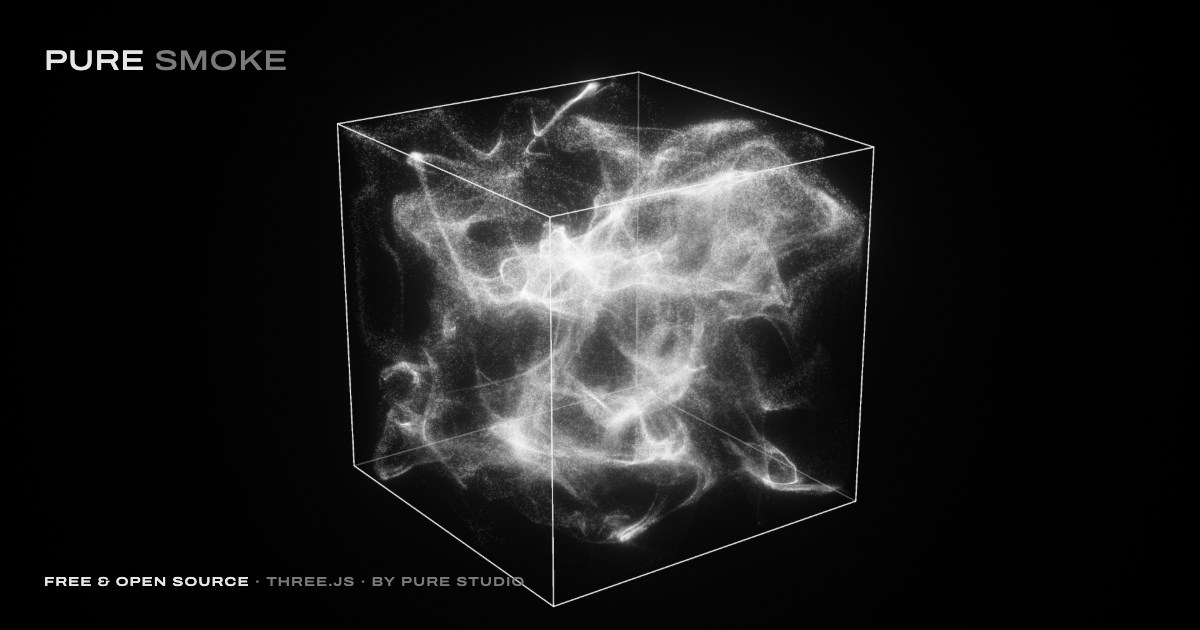
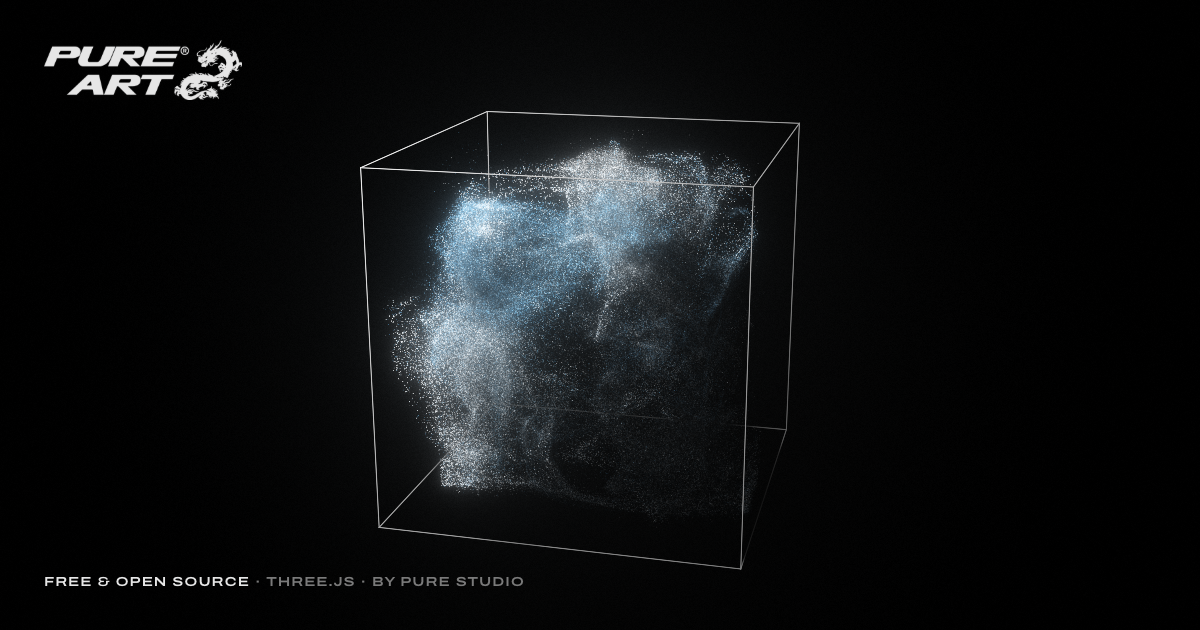
Ready to open: README front page, contributing guide, new share image
- README opens like a project page: what it is in three lines, what's in it, why it looks like this
  (each design choice and its reason), how to make it yours, then the controls and how it works. The
  demo link is pure-art.vercel.app.
- CONTRIBUTING.md: how to run it, small pull requests, the smoke is the art (show before and after),
  test where people use it, reduced motion, comments that say why.
- og.png: the app itself in the blue gradient under the Pure Art logo; the share card's image and page
  are absolute addresses, as social sites need.
- package.json: homepage, repository, issues and keywords.

diff --git a/index.html b/index.html
@@ -13,7 +13,8 @@
     <link rel="stylesheet" href="/src/style.css" />
     <meta property="og:title" content="Pure Smoke" />
     <meta property="og:description" content="Particle smoke in a glass cube. Free and open source, made with three.js by Pure Studio." />
-    <meta property="og:image" content="/og.png" />
+    <meta property="og:image" content="https://pure-art.vercel.app/og.png" />
+    <meta property="og:url" content="https://pure-art.vercel.app" />
     <meta name="twitter:card" content="summary_large_image" />
     <link rel="icon" href="/favicon.png" type="image/png" sizes="64x64" />
     <link rel="apple-touch-icon" href="/apple-touch-icon.png" />

diff --git a/README.md b/README.md
@@ -1,12 +1,42 @@
 # Pure Smoke
 
-Particle smoke in a glass cube. Free, open source and made with three.js.
+Particle smoke in a glass cube. Free, open source, made with three.js.
 
-![Pure Smoke: white particle smoke inside a wireframe glass cube](public/og.png)
+![Pure Smoke: blue and white particle smoke inside a wireframe glass cube, under the Pure Art logo](public/og.png)
 
-**Play with it:** https://pure-smoke.vercel.app
+**Play with it:** https://pure-art.vercel.app
 
-Drag to turn the cube, hover to stir the smoke, scroll to zoom (the hints at the bottom light up while you do each one, the first few times; on a touch screen only the drag is listed). Change the look with the panel on the side, then save a 4K image or record a seamless loop for your post.
+Most smoke on the web is a video. This one is alive.
+A million grains move through a real flow, inside real glass, under one studio lamp.
+You can turn it, stir it, give it your colours, and take it home as a 4K image or a loop that never shows its seam.
+
+Drag to turn the cube, hover to stir the smoke, scroll to zoom (the hints at the bottom light up while you do each one, the first few times; on a touch screen only the drag is listed).
+
+## What's in it
+
+- **Seven looks.** Each one a different shape of the same smoke. Randomize only rolls the ones that stay beautiful.
+- **Your colours, as data.** A gradient you draw, a palette, or any picture: every pixel colours its share of the smoke.
+- **Glass that acts like glass.** The smoke slides along the faces and springs back. The edges take the smoke's own light, or its colours.
+- **Rebound.** The smoke as physics, thrown at the glass on every beat.
+- **Take it with you.** A 4K image, or a seamless loop in MP4 for your post.
+- **Keep your looks.** Save them as chips, download them as a file, share any look with the link.
+- **On a phone too.** The panel becomes a sheet and the cube fits the room above it.
+
+## Why it looks like this
+
+Smoke is light. So the studio is black, and there is one lamp.
+The colour belongs to the smoke. So the panel is grey on black, and nothing else on the page is coloured.
+Most people want a look, a colour, and a way to share. So those come first; everything else waits under Fine-tune.
+Motion should explain, not decorate. The panel folds into the corner it comes back from. The hints light up the first few times you do what they say, then step back.
+The cube is the hero. On a phone it keeps to the room between the name and the sheet, so nothing covers it.
+
+## Make it yours
+
+Fork it, change it, ship it. Three places to start:
+
+- **A look of your own.** Find it in the panel, press **copy code**, and paste the block into `presets` in `src/settings.js`. It becomes a chip.
+- **The colour it opens in.** `DEFAULT_GRADIENT` in `src/settings.js`: a gradient's stops, as the editor writes them.
+- **The flow itself.** `src/simulation.js`: the velocity shader that moves every grain.
 
 ## Controls
 
@@ -79,6 +109,10 @@ Every grain is one texel in two float textures (position and age, velocity and s
 - **Edges:** a plain stroke, one width end to end, drawn as anti-aliased screen-space strips after the grade, with round joins at the corners. Each point of an edge reads the same opacity maps as the grains and takes the light a grain would take there, through the same exposure and film roll-off: brightest nearest the lamp, darker away from it and where smoke shades it, and hidden by smoke in front of it.
 
 All of it is in `src/`. Start with `settings.js` for the controls and looks, and `simulation.js` for the flow.
+
+## Contributing
+
+Issues and pull requests are welcome. Read [CONTRIBUTING.md](CONTRIBUTING.md) first: it is short, and it says how to check that a change keeps the smoke as it is.
 
 ## Credits
 

diff --git a/CONTRIBUTING.md b/CONTRIBUTING.md
@@ -1,0 +1,24 @@
+# Contributing
+
+Thanks for wanting to make Pure Smoke better. A few things keep it the way it is.
+
+## Run it
+
+```bash
+npm install
+npm run dev
+```
+
+Open http://127.0.0.1:5321. No build step beyond Vite, no framework: plain JavaScript and three.js.
+
+## Before you open a pull request
+
+- **Keep it small.** One change per pull request. For anything bigger than a fix, open an issue first so we can agree on it.
+- **The smoke is the art.** A change to the flow, the light or the grade (`simulation.js`, `smoke.js`, `grade.js`, `cube.js`) changes what people see. Say so in the pull request, with an image of the pure look in white and the original look in dusk, before and after (S saves one).
+- **Check it where people use it.** Chrome, Safari and Firefox on a computer, and a real phone if you touched the panel or the sheet. Press Space to pause, H to hide the panel, R to randomize: nothing should break.
+- **Respect reduced motion.** Anything that moves gets a still version under `prefers-reduced-motion`.
+- **Comments say why.** The code explains its choices in plain sentences; please keep doing that.
+
+## Licence
+
+By contributing you agree that your work is shared under the [MIT licence](LICENSE). The Pure Studio and Pure Art names and logos are not part of it.
